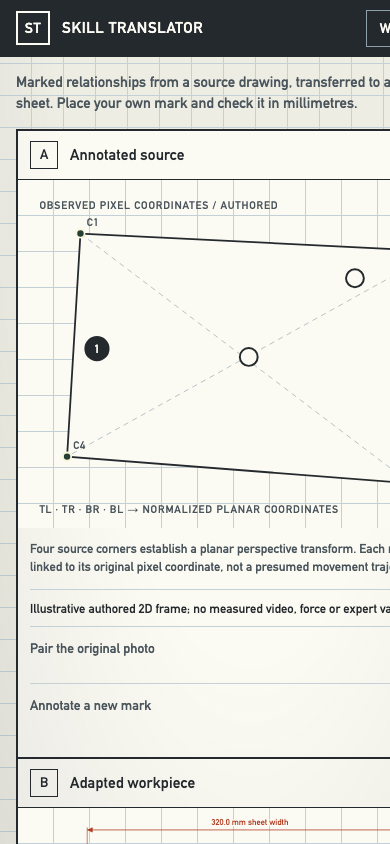
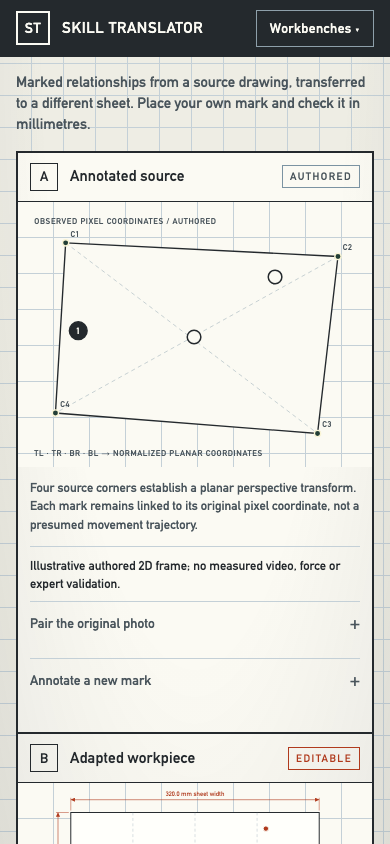
Polish controls and add demo script draft
Round-2 polish: button, input and focus transitions, disabled states,
plain step labels for marks and candidate rules, and refreshed UI
review screenshots. Adds the demo script draft and step screenshots;
demo/*.mp4 is ignored.

diff --git a/web/index.css b/web/index.css
@@ -27,10 +27,20 @@ body{margin:0;min-width:320px;background:var(--film);
 body::before{content:"";position:fixed;inset:0;pointer-events:none;background:radial-gradient(ellipse at 50% 0,transparent 55%,rgba(36,41,45,.08))}
 h1,h2,h3,p{margin:0}
 button,input,select,summary{font:inherit;color:inherit}
-button{cursor:pointer;border:1px solid var(--ink);background:transparent;padding:.55rem .85rem;border-radius:2px;letter-spacing:.02em}
+button{cursor:pointer;border:1px solid var(--ink);background:transparent;padding:.55rem .85rem;border-radius:2px;letter-spacing:.02em;transition:background-color .15s ease,color .15s ease,border-color .15s ease,transform .08s ease}
 button:hover{background:var(--ink);color:var(--sheet)}
+button:active{transform:translateY(1px) scale(.99)}
+button:disabled{cursor:not-allowed;opacity:.45;background:transparent;color:inherit;transform:none}
 button.primary{background:var(--ink);color:var(--sheet);font-weight:600}
 button.primary:hover{background:var(--dim);border-color:var(--dim)}
+input[type=number],input[type=text],select{transition:border-color .15s ease,box-shadow .15s ease}
+input[type=number]:hover,input[type=text]:hover,select:hover{border-color:var(--ink-2)}
+input[type=number]:focus-visible,input[type=text]:focus-visible,select:focus-visible{border-color:var(--focus);box-shadow:0 0 0 2px var(--sheet),0 0 0 4px var(--focus);outline:none}
+input::placeholder{color:#5b666d;opacity:1}
+.fold>summary:hover{color:var(--dim)}
+.menu summary{transition:background-color .15s ease,color .15s ease}
+.menu-panel a{transition:background-color .15s ease,border-color .15s ease}
+.switch input{cursor:pointer}
 input[type=number],input[type=text],select{width:100%;background:var(--sheet);color:var(--ink);border:1px solid var(--construct);padding:.5rem .6rem;border-radius:2px}
 input[type=file]{font-size:.8rem;max-width:100%}
 input::file-selector-button{border:1px solid var(--ink);background:transparent;padding:.3rem .55rem;margin-right:.6rem;border-radius:2px;cursor:pointer}

diff --git a/demo/SCRIPT.md b/demo/SCRIPT.md
@@ -1,0 +1,19 @@
+# Demo script draft: Skill Translator
+
+Draft only. Not rendered. Dry-run checked headlessly; step screenshots in demo/steps/.
+
+Approx. length: 236 words, about 94 seconds at 150 words per minute.
+
+| Step | Narration | What is on screen |
+|---|---|---|
+| 1 | Skill Translator helps a bookbinding teacher move a marked position from one drawing to a sheet of a different size. It tells you how far off your placement is, in millimetres. | Opening view. Source drawing on the left, empty target sheet on the right, Workbenches menu top right. |
+| 2 | On the left is the source drawing. It has three marks. Each mark follows a rule about where it sits. | Second mark chosen in the mark list (Center registration); the rule line updates to proportional position. |
+| 3 | On the right is the target sheet, three hundred and twenty by one hundred and ninety millimetres. The red dot is where the mark should go. | Target sheet shows its 320 by 190 mm size and a red dot at the target position for the chosen mark. |
+| 4 | Now place your own mark. Select the target sheet, then nudge the ring with the arrow keys. Each press moves it one millimetre. | Target sheet focused (blue outline); the ring is nudged left and up by keyboard. |
+| 5 | Press Evaluate placement. The app checks your ring against the tolerance for this mark. | Evaluate placement button pressed; result line turns to a red NEEDS ADJUSTMENT message with the error in mm. |
+| 6 | The result line says whether you are within tolerance, and it gives the distance in millimetres. | Result line shows error 18.4 mm against 5.0 mm allowed, with the across and down displacement. |
+| 7 | Next, look at the question behind the mark. What if the mark meant a different rule? Scroll down to find out. | Page scrolled to the 'Same source, different rule' section with the rule selector visible. |
+| 8 | Choose another rule to compare. Here it is a fixed distance from the top edge. The app predicts where that rule would put the mark. | Comparison rule set to fixed distance from the top edge; the outcome text shows the new alternative position. |
+| 9 | Add a measurement from a second sheet size. Give the sheet size, where the mark sits, and how sure you are. | Observation form filled: label, 408 by 272 mm sheet, mark at 208 by 134 mm, 2 mm uncertainty. |
+| 10 | Press Test against all five rules. Only the proportional rule still fits. The other cards show which rules this measurement rules out. | Test pressed; candidate cards show proportional position as COMPATIBLE and the other four as CONTRADICTED. |
+| 11 | That is Skill Translator. Place a mark, check it, then test the rule with a new measurement. | Closing view with the observation table and the candidate cards. |
